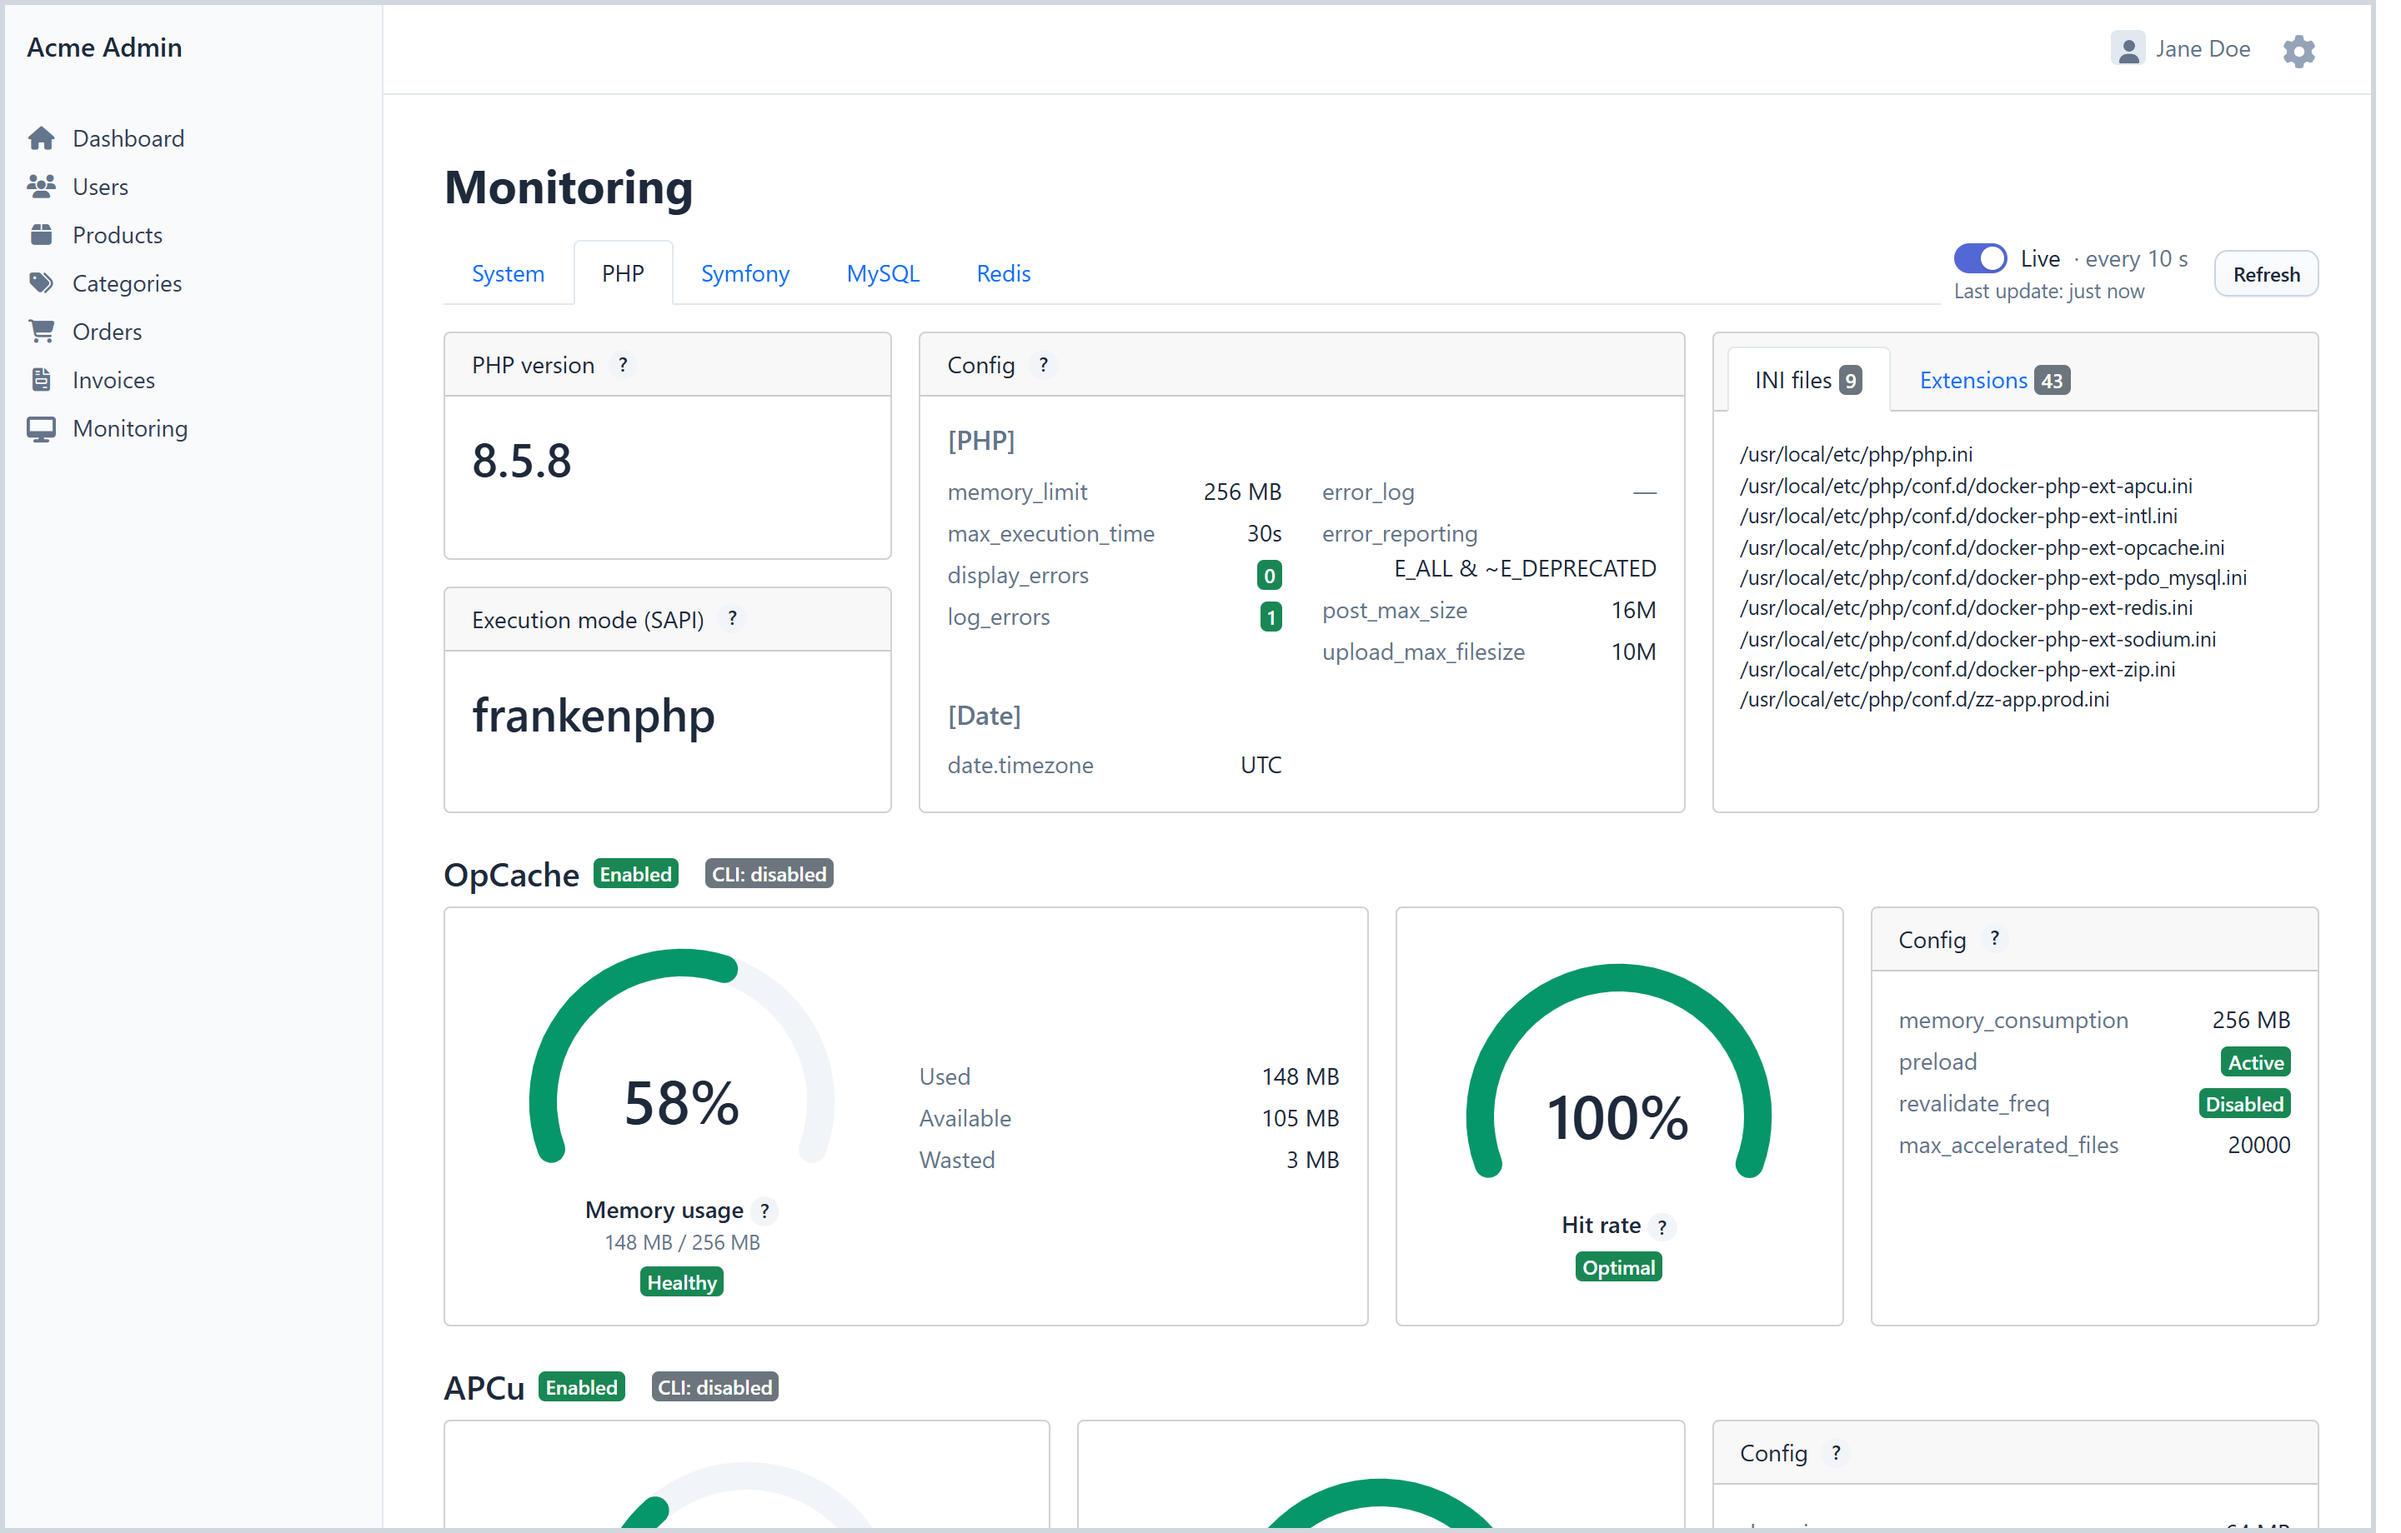
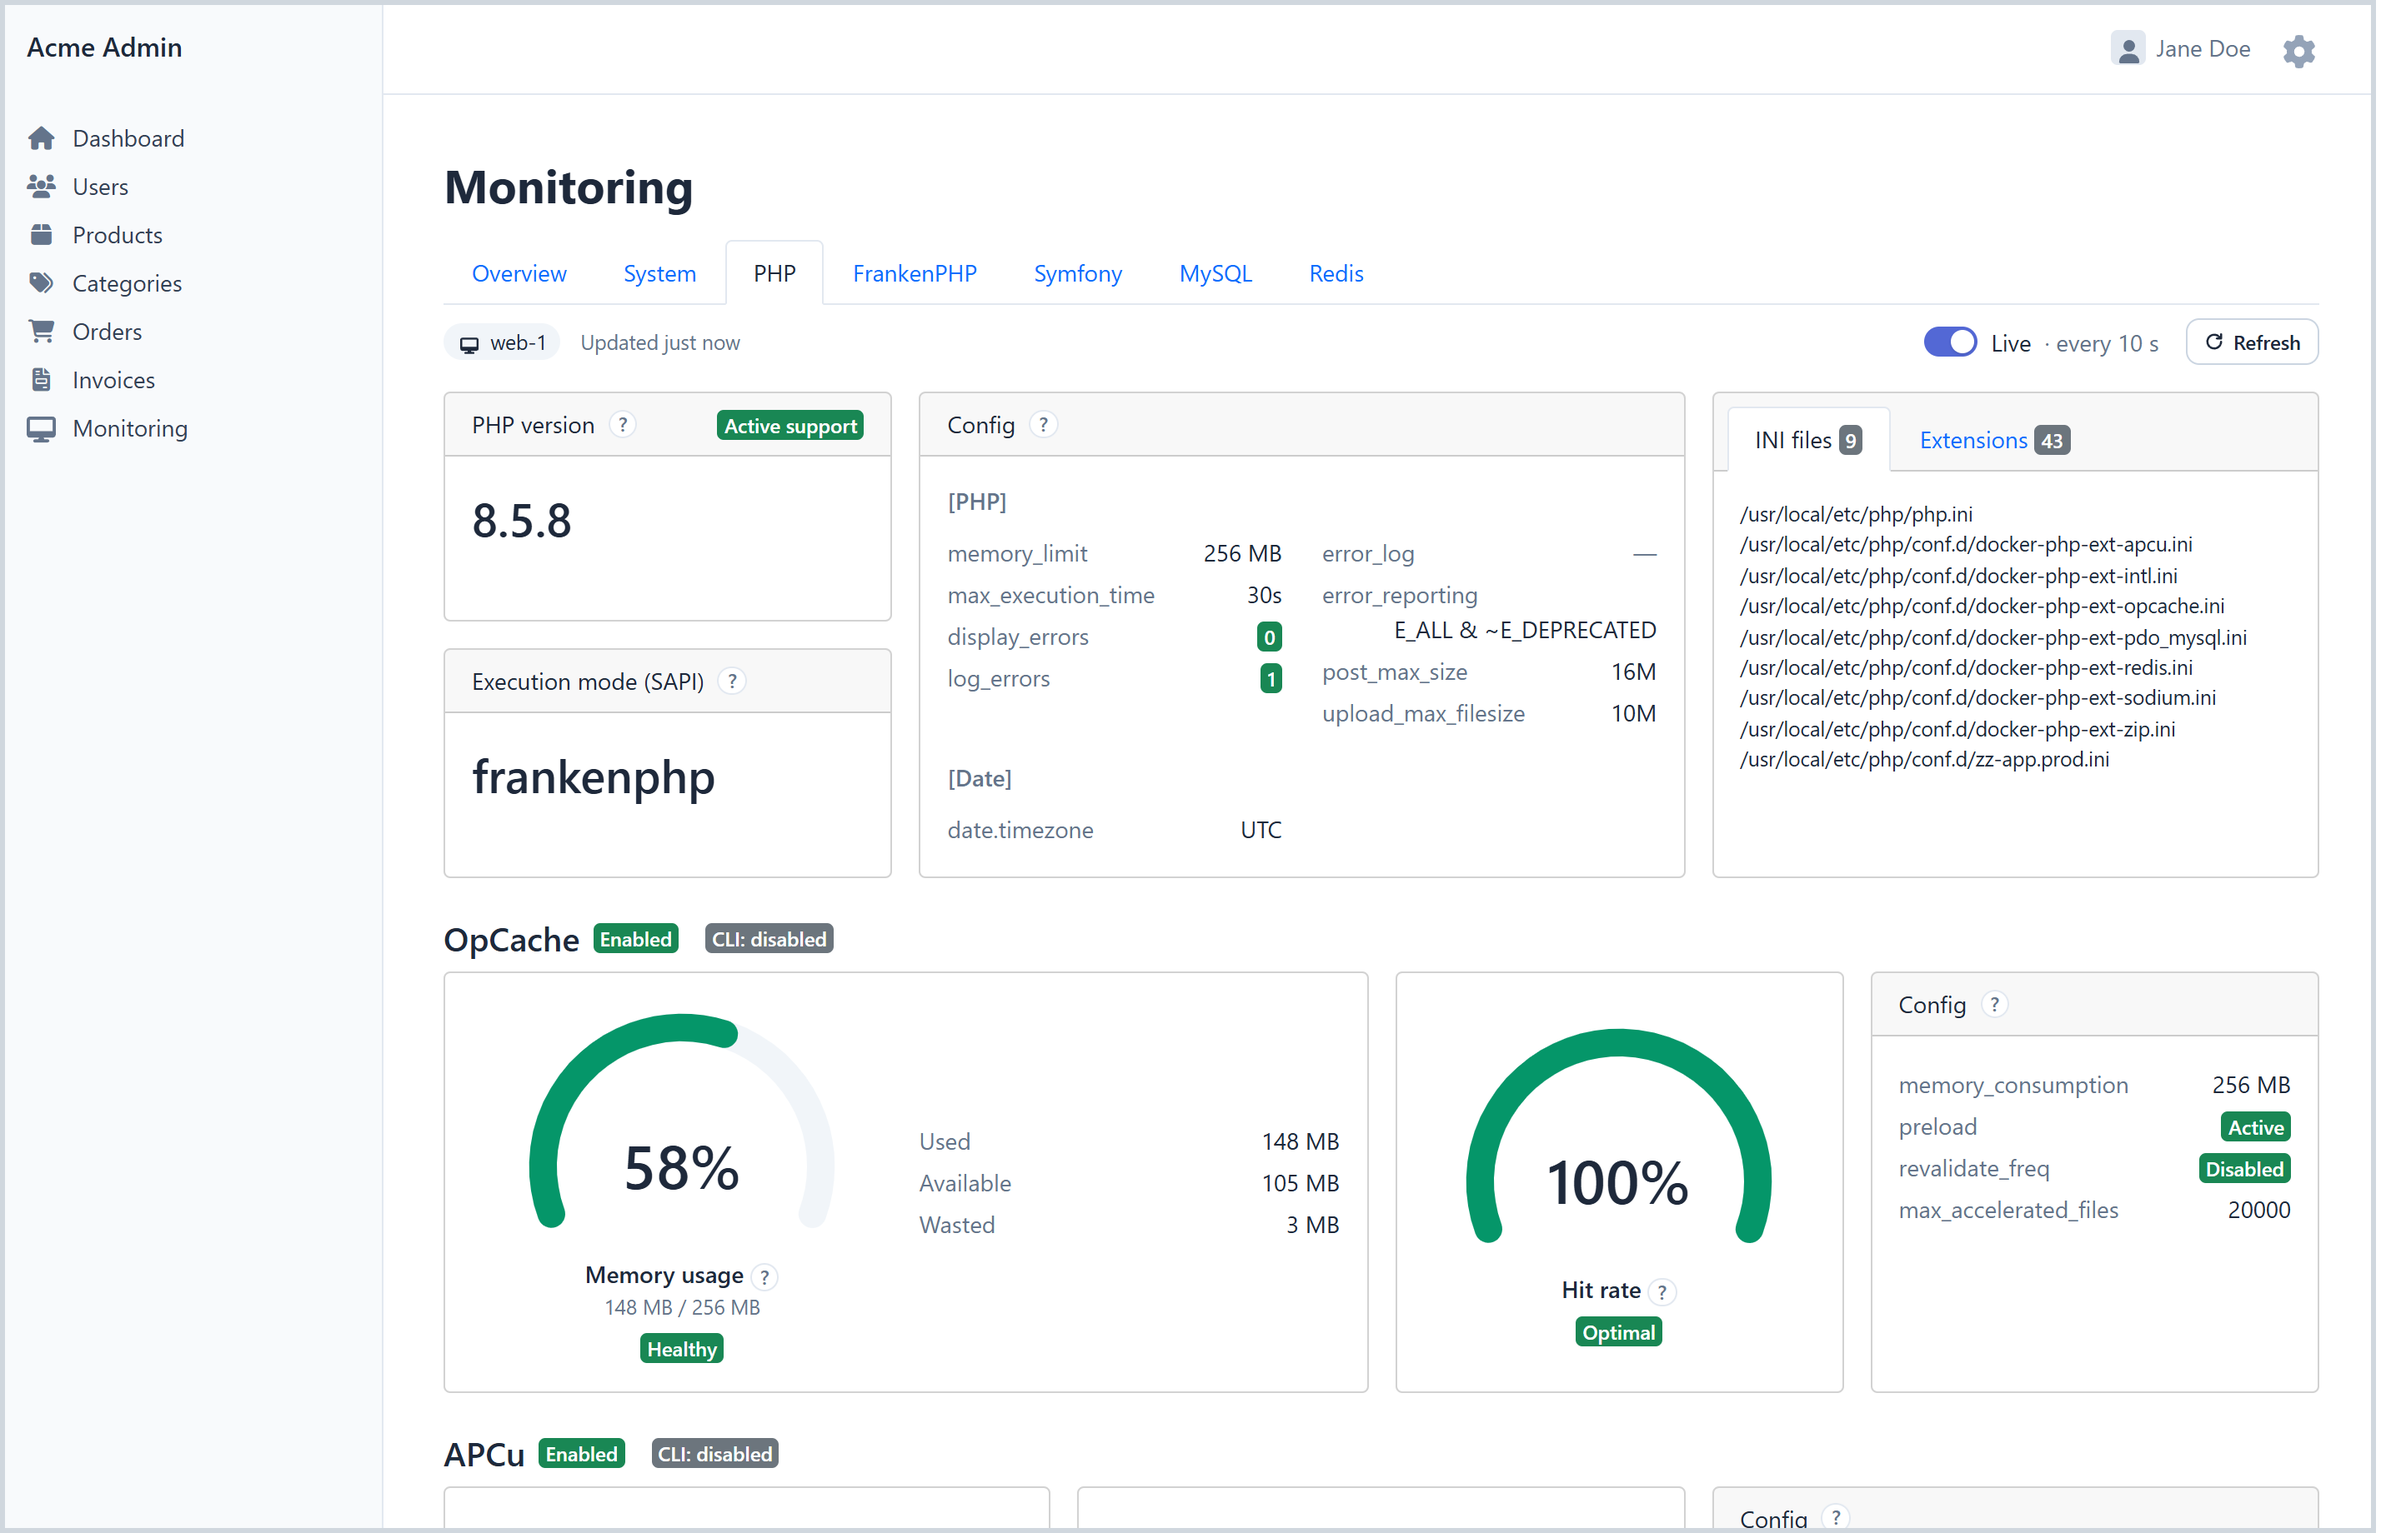
Refresh the README screenshots (#39)

diff --git a/README.md b/README.md
@@ -33,8 +33,8 @@ No worker to run, nothing to store.
 </table>
 
 <p align="center">
-  <a href="https://raw.githubusercontent.com/jmonitor/easyadmin-bundle/1.x/.github/assets/screenshot-symfony.png"><img src="https://raw.githubusercontent.com/jmonitor/easyadmin-bundle/1.x/.github/assets/screenshot-symfony.png" alt="Symfony tab of the monitoring page in EasyAdmin" width="48%"></a>
-  <a href="https://raw.githubusercontent.com/jmonitor/easyadmin-bundle/1.x/.github/assets/screenshot-php.png"><img src="https://raw.githubusercontent.com/jmonitor/easyadmin-bundle/1.x/.github/assets/screenshot-php.png" alt="PHP tab of the monitoring page in EasyAdmin" width="48%"></a>
+  <a href="https://raw.githubusercontent.com/jmonitor/easyadmin-bundle/1.x/.github/assets/screenshot-symfony.png?v=1414bd6b"><img src="https://raw.githubusercontent.com/jmonitor/easyadmin-bundle/1.x/.github/assets/screenshot-symfony.png?v=1414bd6b" alt="Symfony tab of the monitoring page in EasyAdmin" width="48%"></a>
+  <a href="https://raw.githubusercontent.com/jmonitor/easyadmin-bundle/1.x/.github/assets/screenshot-php.png?v=470d424f"><img src="https://raw.githubusercontent.com/jmonitor/easyadmin-bundle/1.x/.github/assets/screenshot-php.png?v=470d424f" alt="PHP tab of the monitoring page in EasyAdmin" width="48%"></a>
 </p>
 
 ## Supported components
